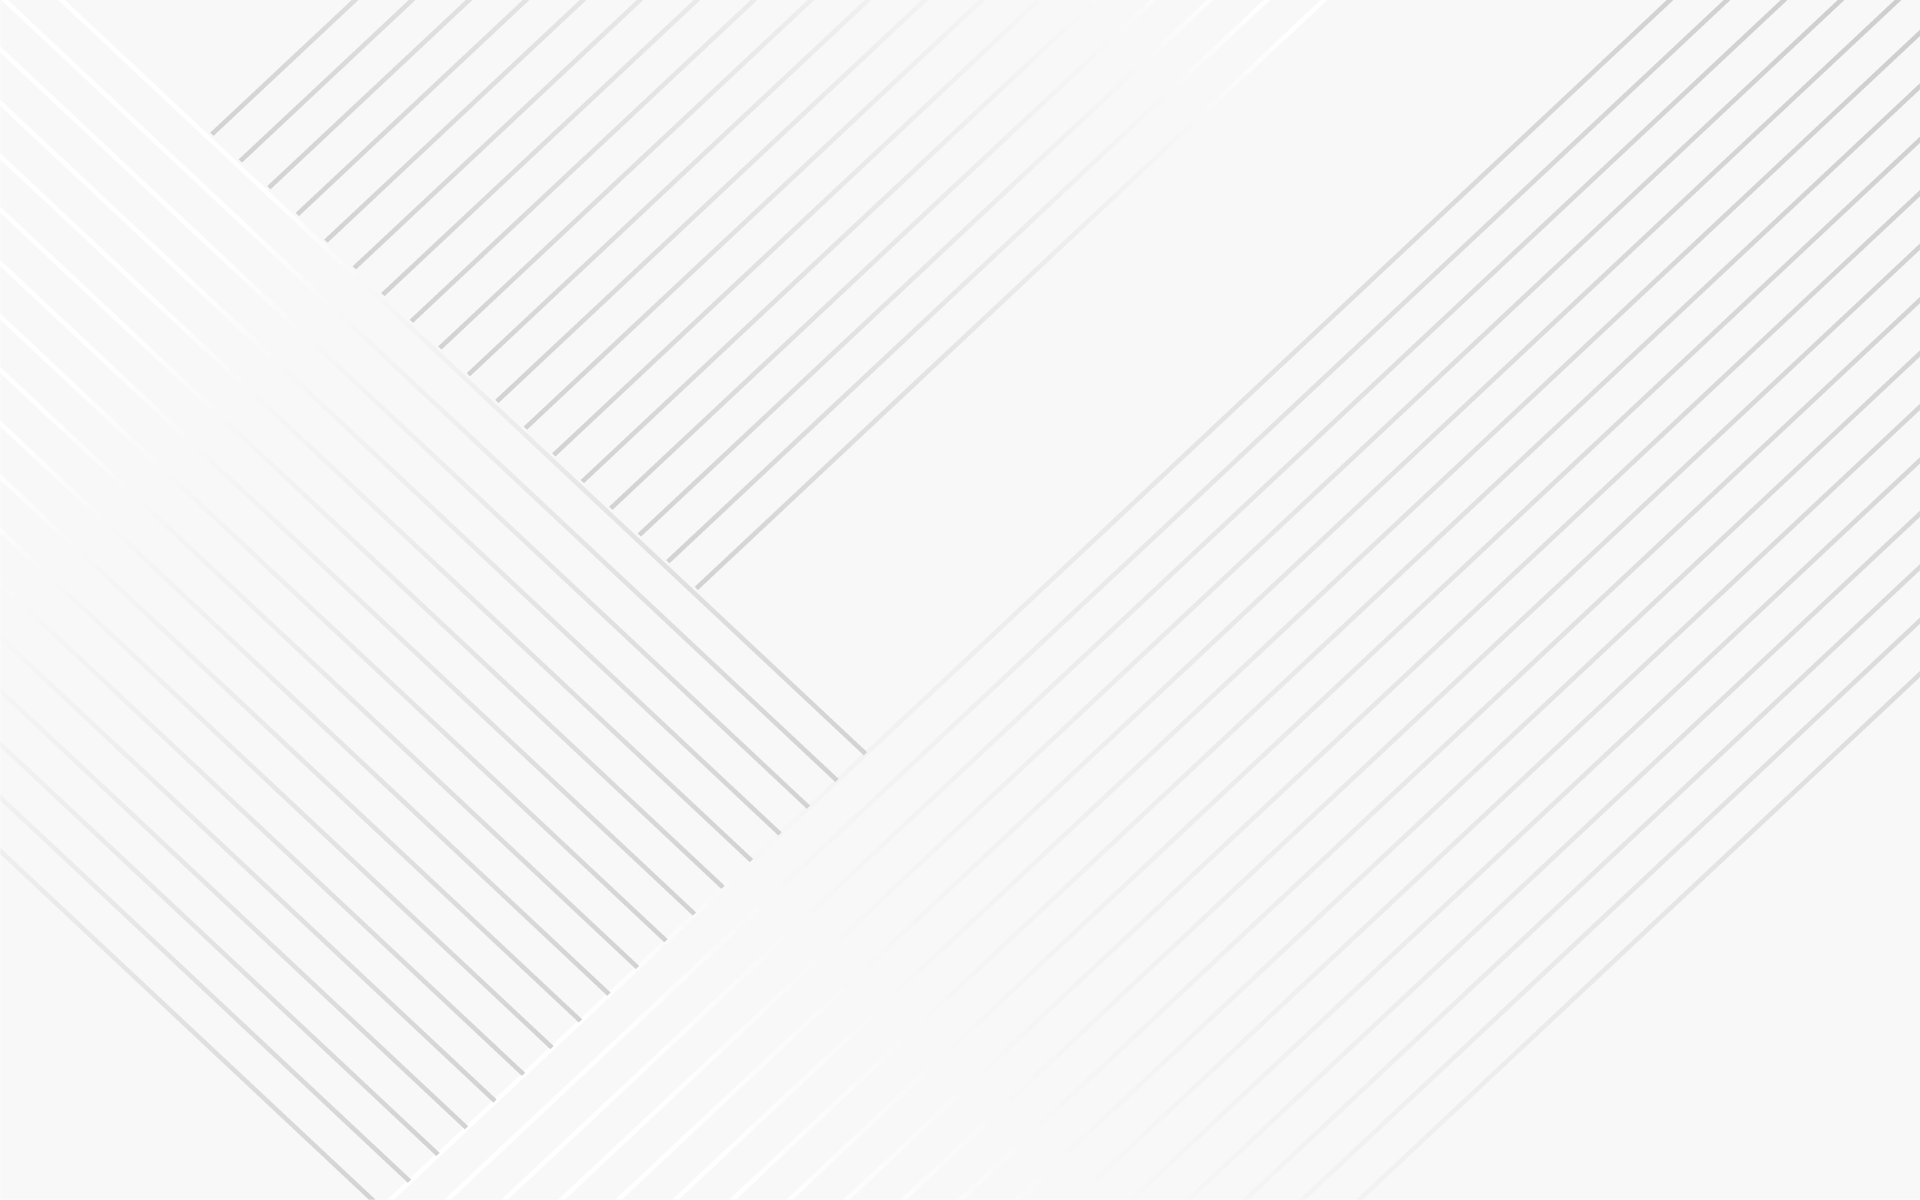
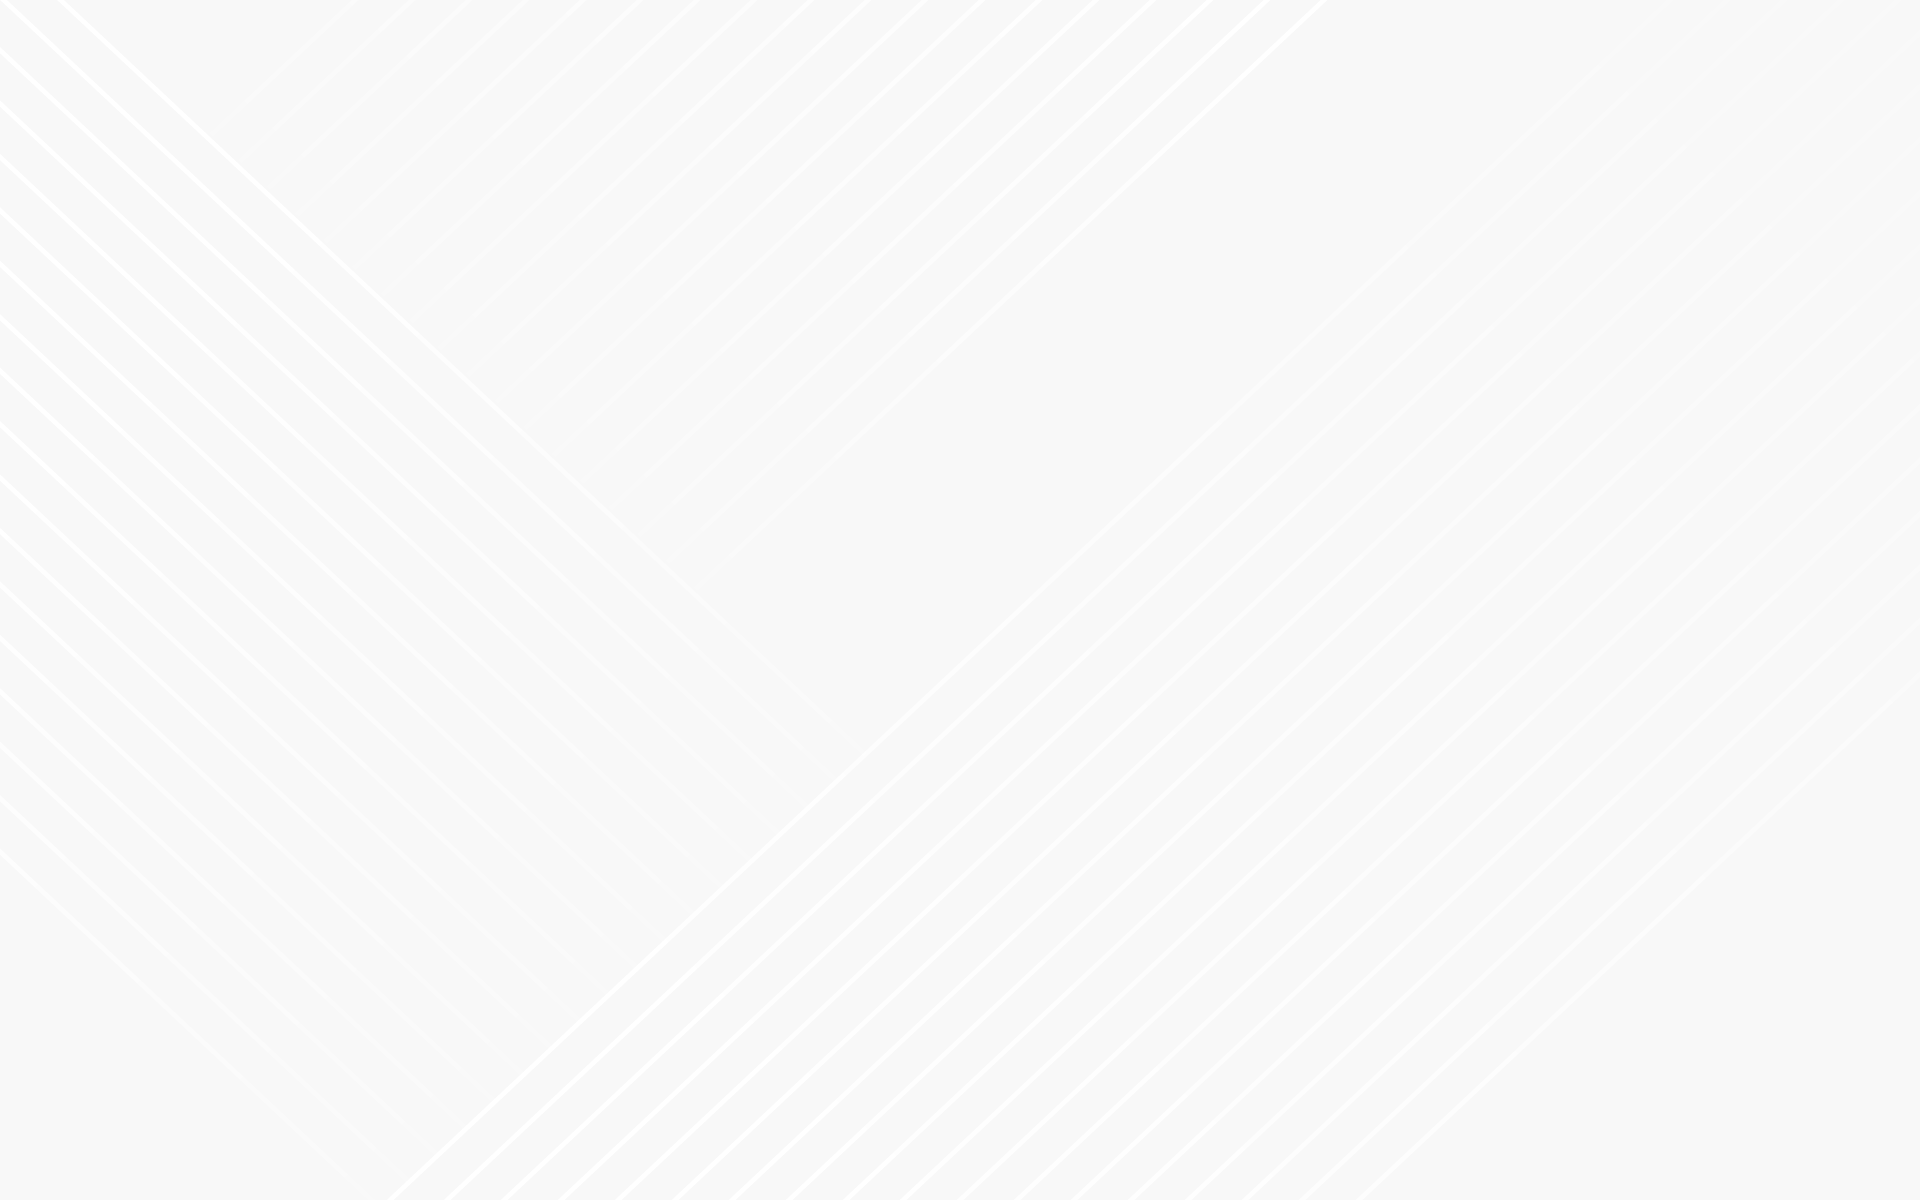
template login + css

diff --git a/assets/styles/css/style.css b/assets/styles/css/style.css
@@ -30,6 +30,10 @@ p {
   font-size: 1rem;
 }
 
+.text-align-c {
+  text-align: center;
+}
+
 .text-align-r {
   text-align: right;
 }
@@ -48,7 +52,9 @@ p.access {
 }
 
 .bg-login {
-  background: url(assets/images/fond_login.svg);
+  background: url("../../images/fond_login.png") no-repeat;
+  width: 100%;
+  height: 100vh;
 }
 .bg-login .container-login {
   width: 1400px;
@@ -65,6 +71,7 @@ p.access {
   border: none;
   border-bottom: 3px solid #009444;
   margin-top: 35px;
+  background: none;
 }
 .bg-login .container-login label {
   font-size: 1.8rem;

diff --git a/assets/styles/scss/layout/_login.scss b/assets/styles/scss/layout/_login.scss
@@ -3,7 +3,11 @@ p.access{
 }
 
 .bg-login{
-    background: url(assets/images/fond_login.svg);
+    background: url("../../images/fond_login.png") no-repeat; 
+    width: 100%;
+    height: 100vh;
+
+    // height: 100vh;
     .container-login{
         width: 1400px;
         margin-right: auto;
@@ -18,6 +22,7 @@ p.access{
             border: none;
             border-bottom: 3px solid $greenDark;
             margin-top: 35px;
+            background: none;
         }
         label{
             font-size: 1.8rem;

diff --git a/assets/styles/scss/general/_general.scss b/assets/styles/scss/general/_general.scss
@@ -13,6 +13,9 @@ p{
     margin: 0;
     font-size: 1rem;
 }
+.text-align-c{
+    text-align: center;
+}
 .text-align-r{
     text-align: right;
 }
